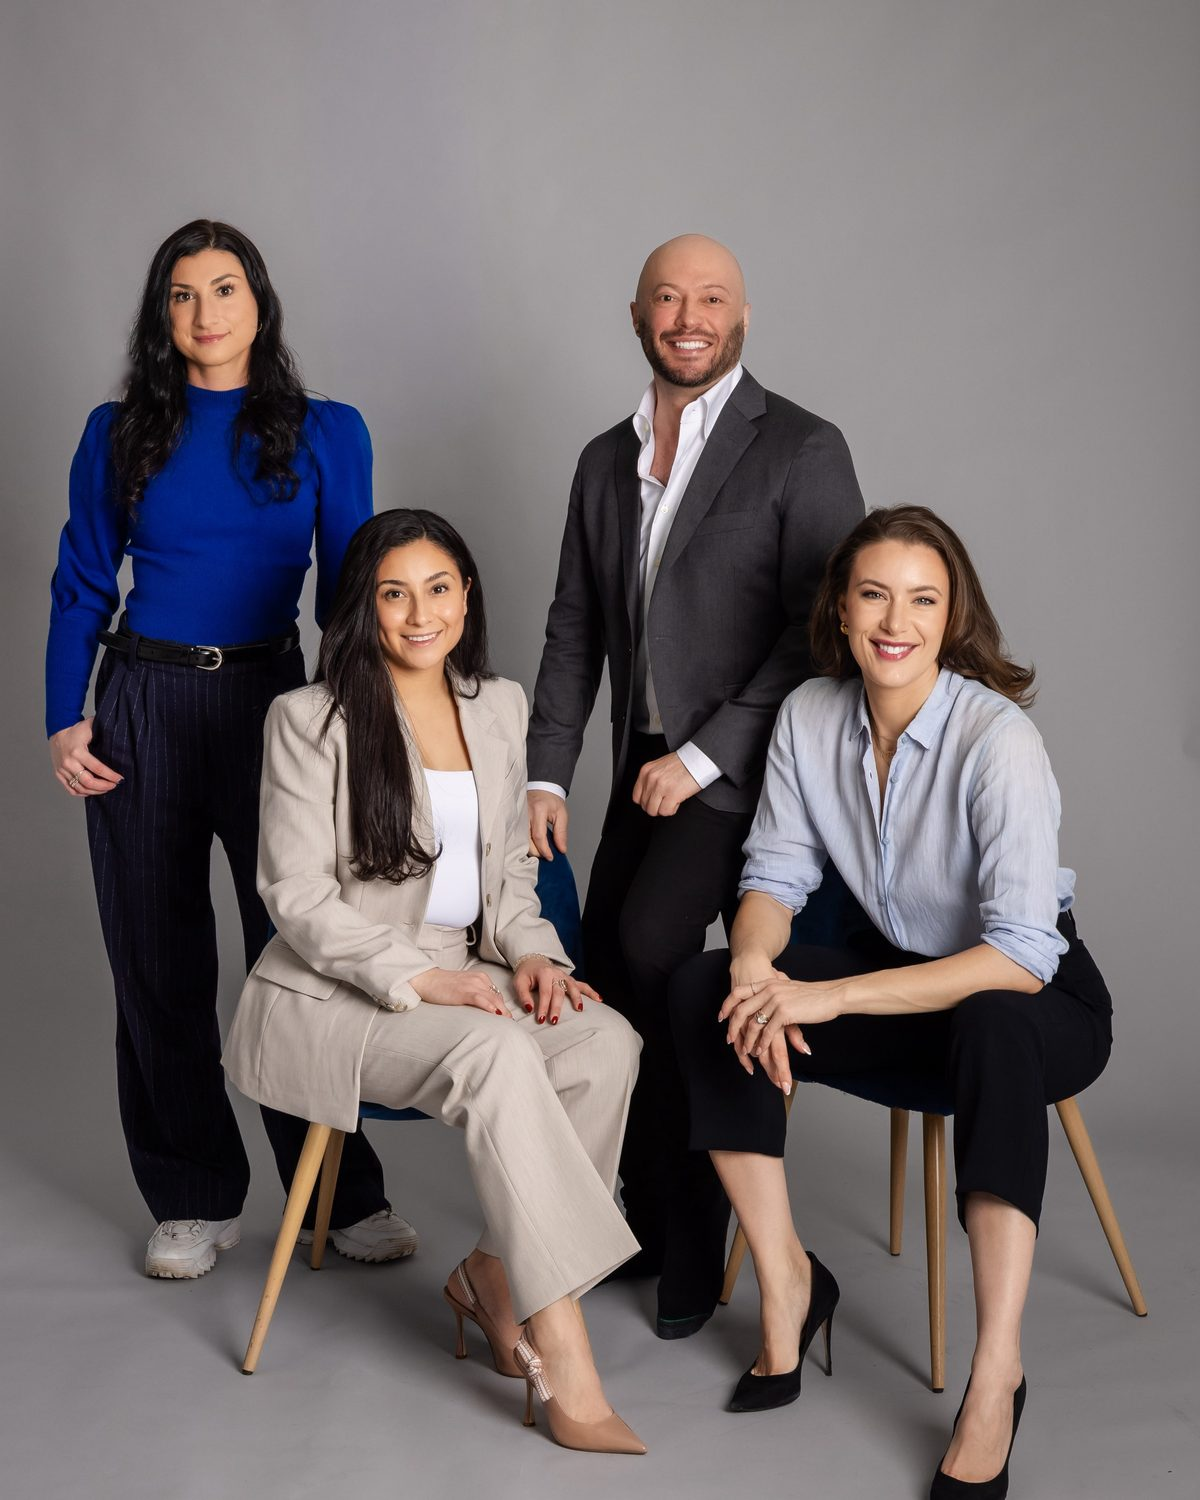
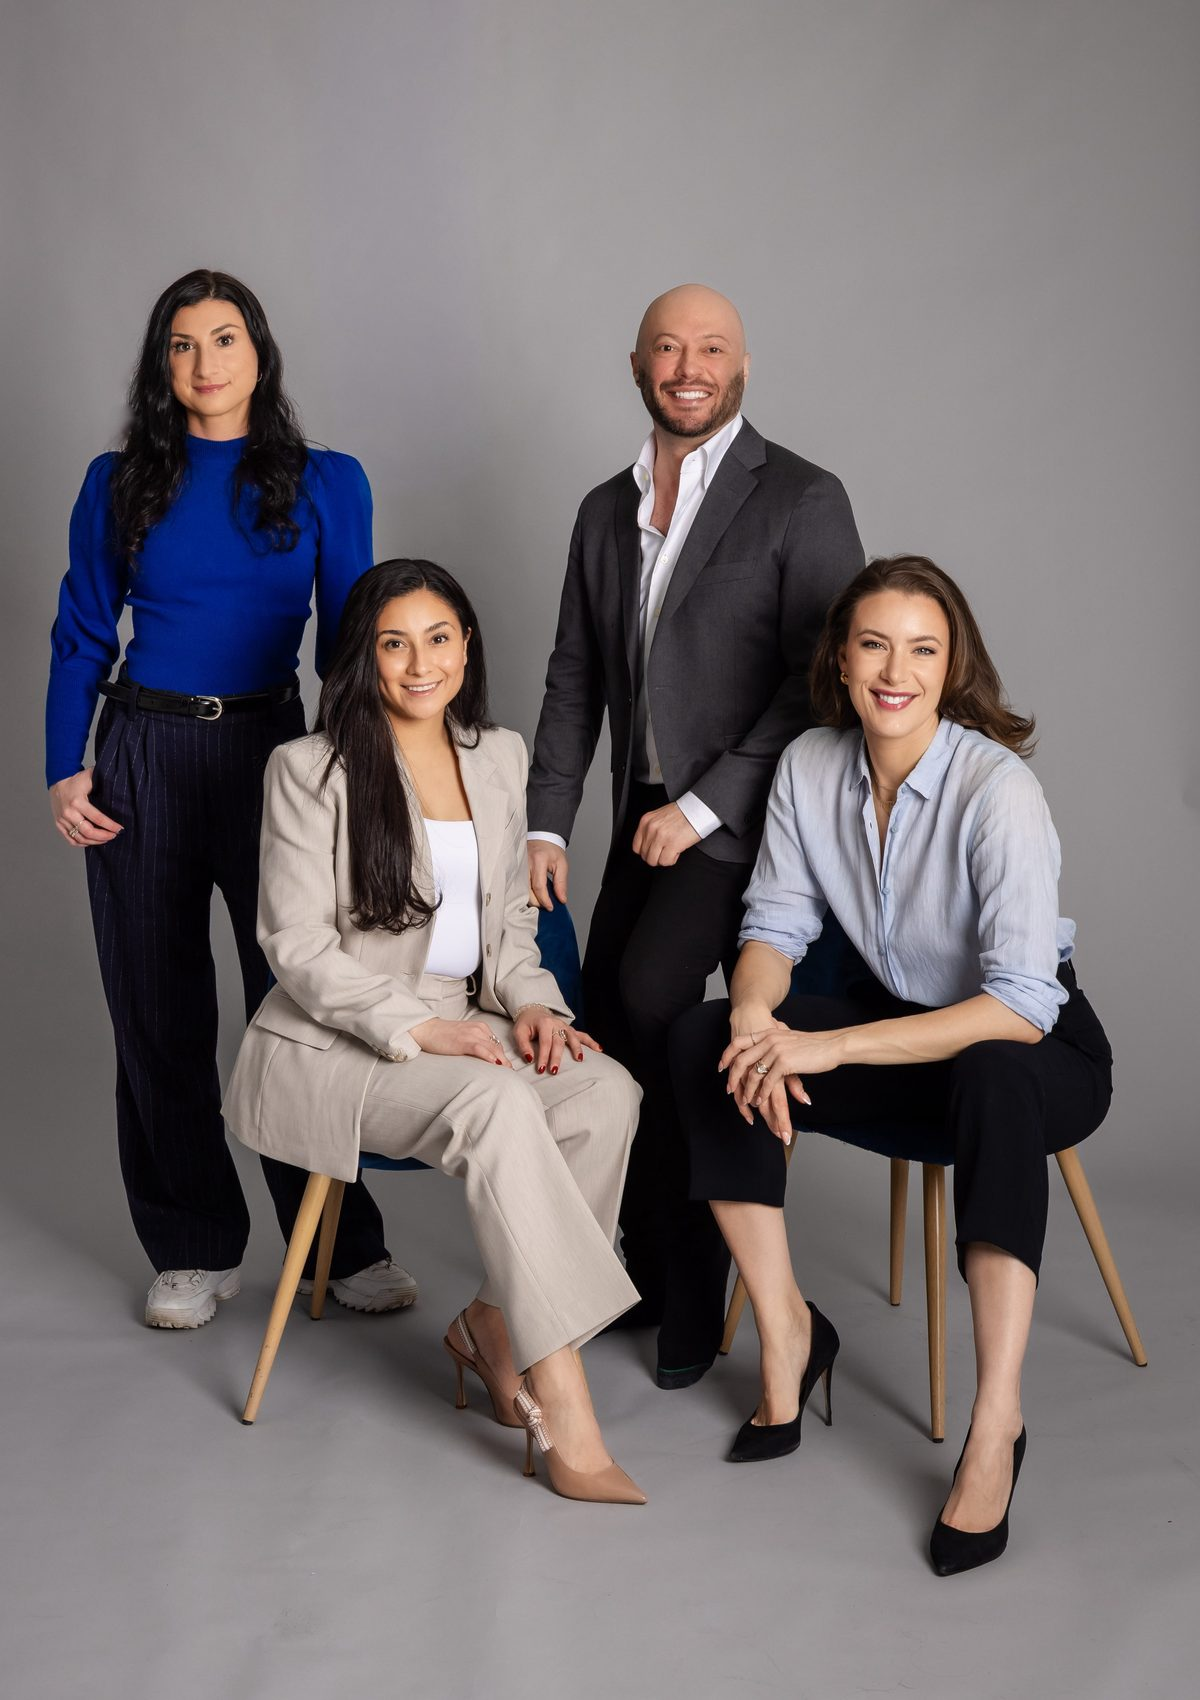
fix(eden): About spacing matches Services, recrop photo, all accordions collapsed
About page now uses gallery-hero section for consistent nav/divider
spacing. Team photo recropped with only slight top trim, full bottom
preserved. Removed sticky positioning that caused scroll jitter.
All service accordions start collapsed.

diff --git a/src/pages/services-page.js b/src/pages/services-page.js
@@ -18,15 +18,15 @@ function buildServicesPage() {
     ).join('');
 
     return `
-      <div class="services-pillar${i === 0 ? ' services-pillar--open' : ''}" id="${s.anchorId}">
-        <button class="services-pillar-header" aria-expanded="${i === 0 ? 'true' : 'false'}" data-pillar="${i}">
+      <div class="services-pillar" id="${s.anchorId}">
+        <button class="services-pillar-header" aria-expanded="false" data-pillar="${i}">
           <div class="services-pillar-header-text">
             <h3 class="services-pillar-title">${s.title}</h3>
             <span class="services-pillar-tagline">${s.tagline}</span>
           </div>
-          <span class="services-pillar-icon">${i === 0 ? '\u2212' : '+'}</span>
+          <span class="services-pillar-icon">+</span>
         </button>
-        <div class="services-pillar-body"${i === 0 ? ' style="max-height:2000px"' : ''}>
+        <div class="services-pillar-body">
           <p class="services-pillar-intro">${s.intro}</p>
           <ol class="services-sub-list">
             ${subItems}

diff --git a/src/pages/about.js b/src/pages/about.js
@@ -40,10 +40,15 @@ function buildAbout() {
   }).join('');
 
   main.innerHTML = `
-    <section class="about-story section-padding" style="padding-top: var(--sp-6);">
+    <section class="gallery-hero section-padding">
       <div class="container">
         ${createDivider('About Us')}
-        <h1 class="gallery-headline" data-animate="words" style="margin-bottom: var(--sp-3);">Our Story</h1>
+        <h1 class="gallery-headline" data-animate="words">Our Story</h1>
+      </div>
+    </section>
+
+    <section class="about-story section-padding">
+      <div class="container">
         <div class="about-story-grid">
           <div class="about-story-text">
             <div class="about-story-body">

diff --git a/src/styles/about.css b/src/styles/about.css
@@ -36,8 +36,6 @@
 .about-story-photo {
   border-radius: var(--card-radius);
   overflow: hidden;
-  position: sticky;
-  top: 100px;
 }
 
 .about-team-group-img {
@@ -191,7 +189,6 @@
   }
 
   .about-story-photo {
-    position: static;
     max-width: 500px;
   }
 
